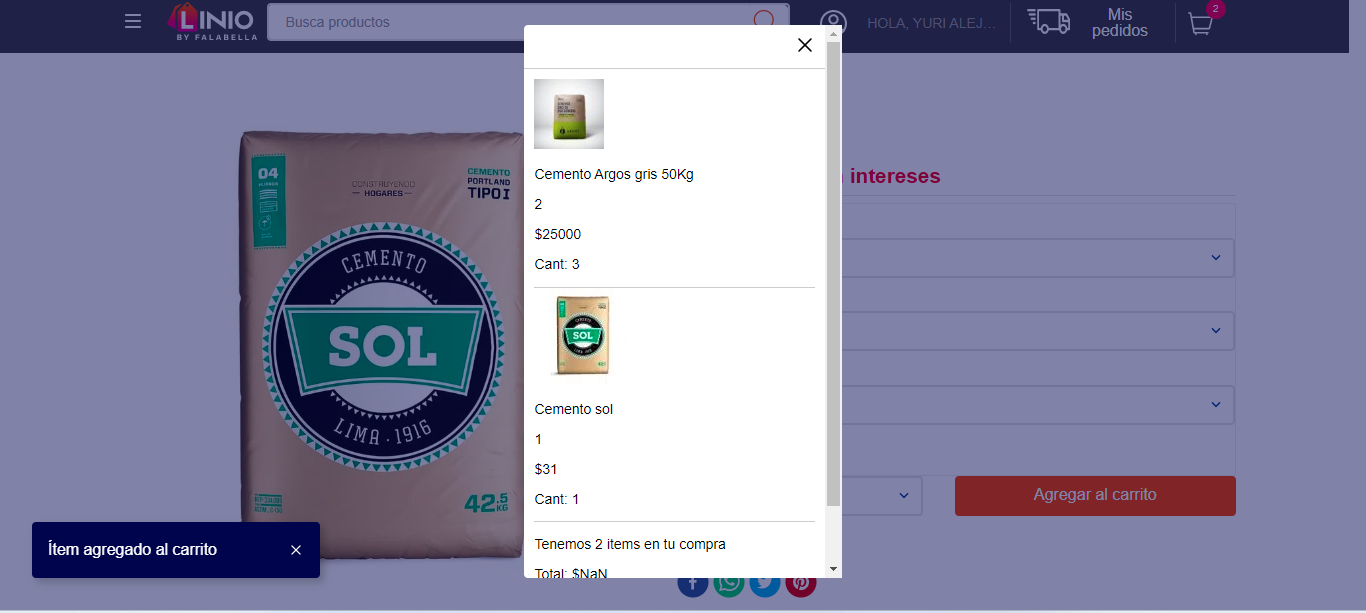
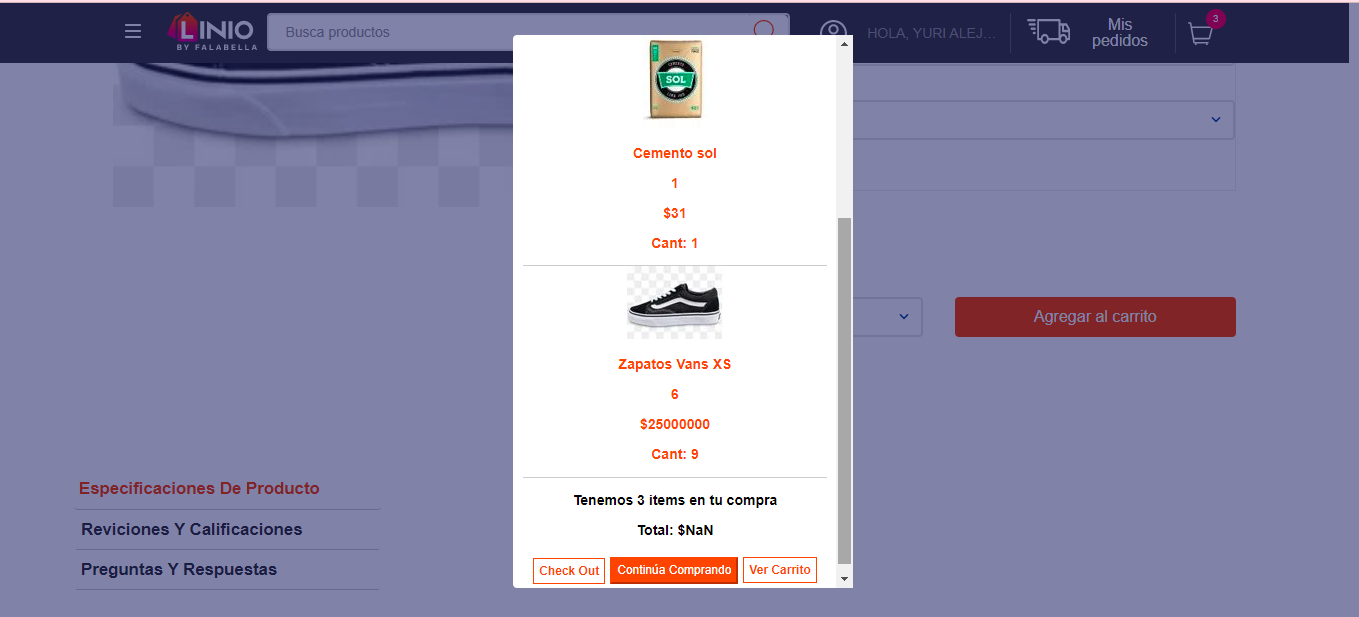
style(custom-add-to-cart)estilos al modal de informacion al agregar un item al carrito

diff --git a/react/components/styles.css b/react/components/styles.css
@@ -21,11 +21,12 @@
 .links{
   text-decoration: none;
   text-decoration: none;
-    font-size: 12px;
-    margin: 5px;
-    color: #f50;
-    border: 1px solid;
-    padding: 5px;
+  font-size: 12px;
+  margin: 5px;
+  color: #f50;
+  background-color: #ccc;
+  border: 1px solid;
+  padding: 5px;
 }
 .buttonSigueComprando{
   font-size: 12px;
